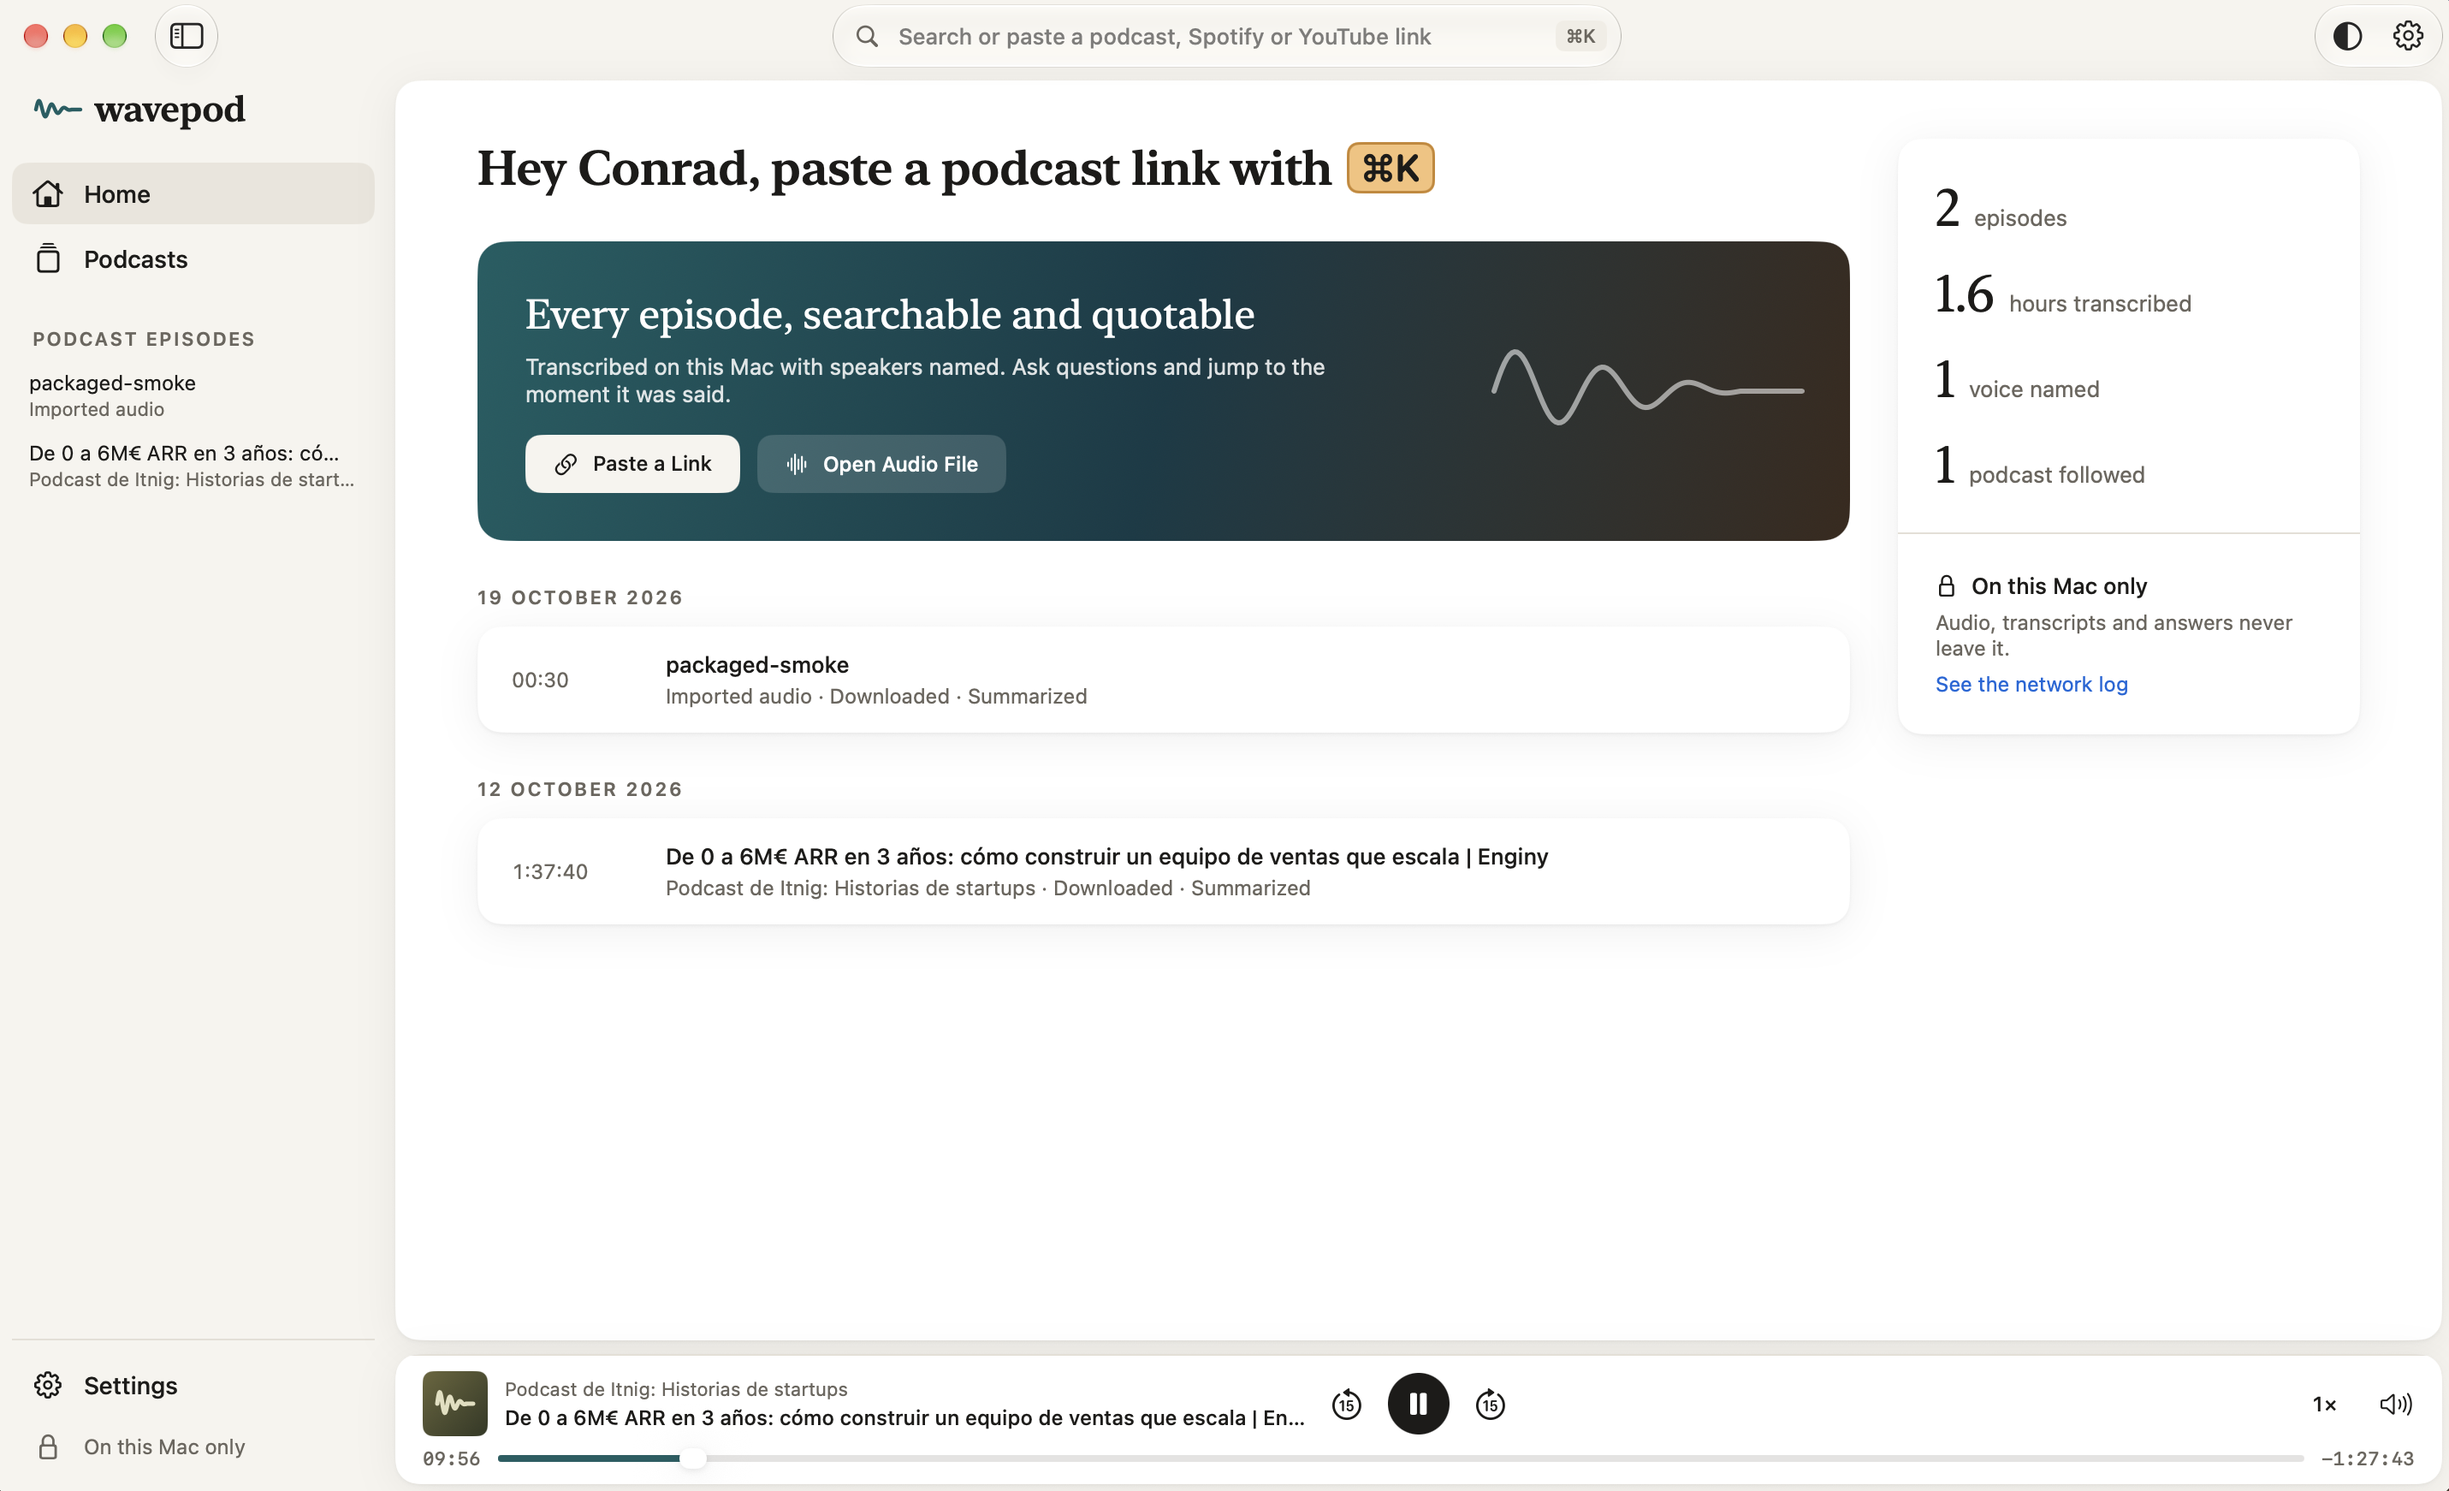
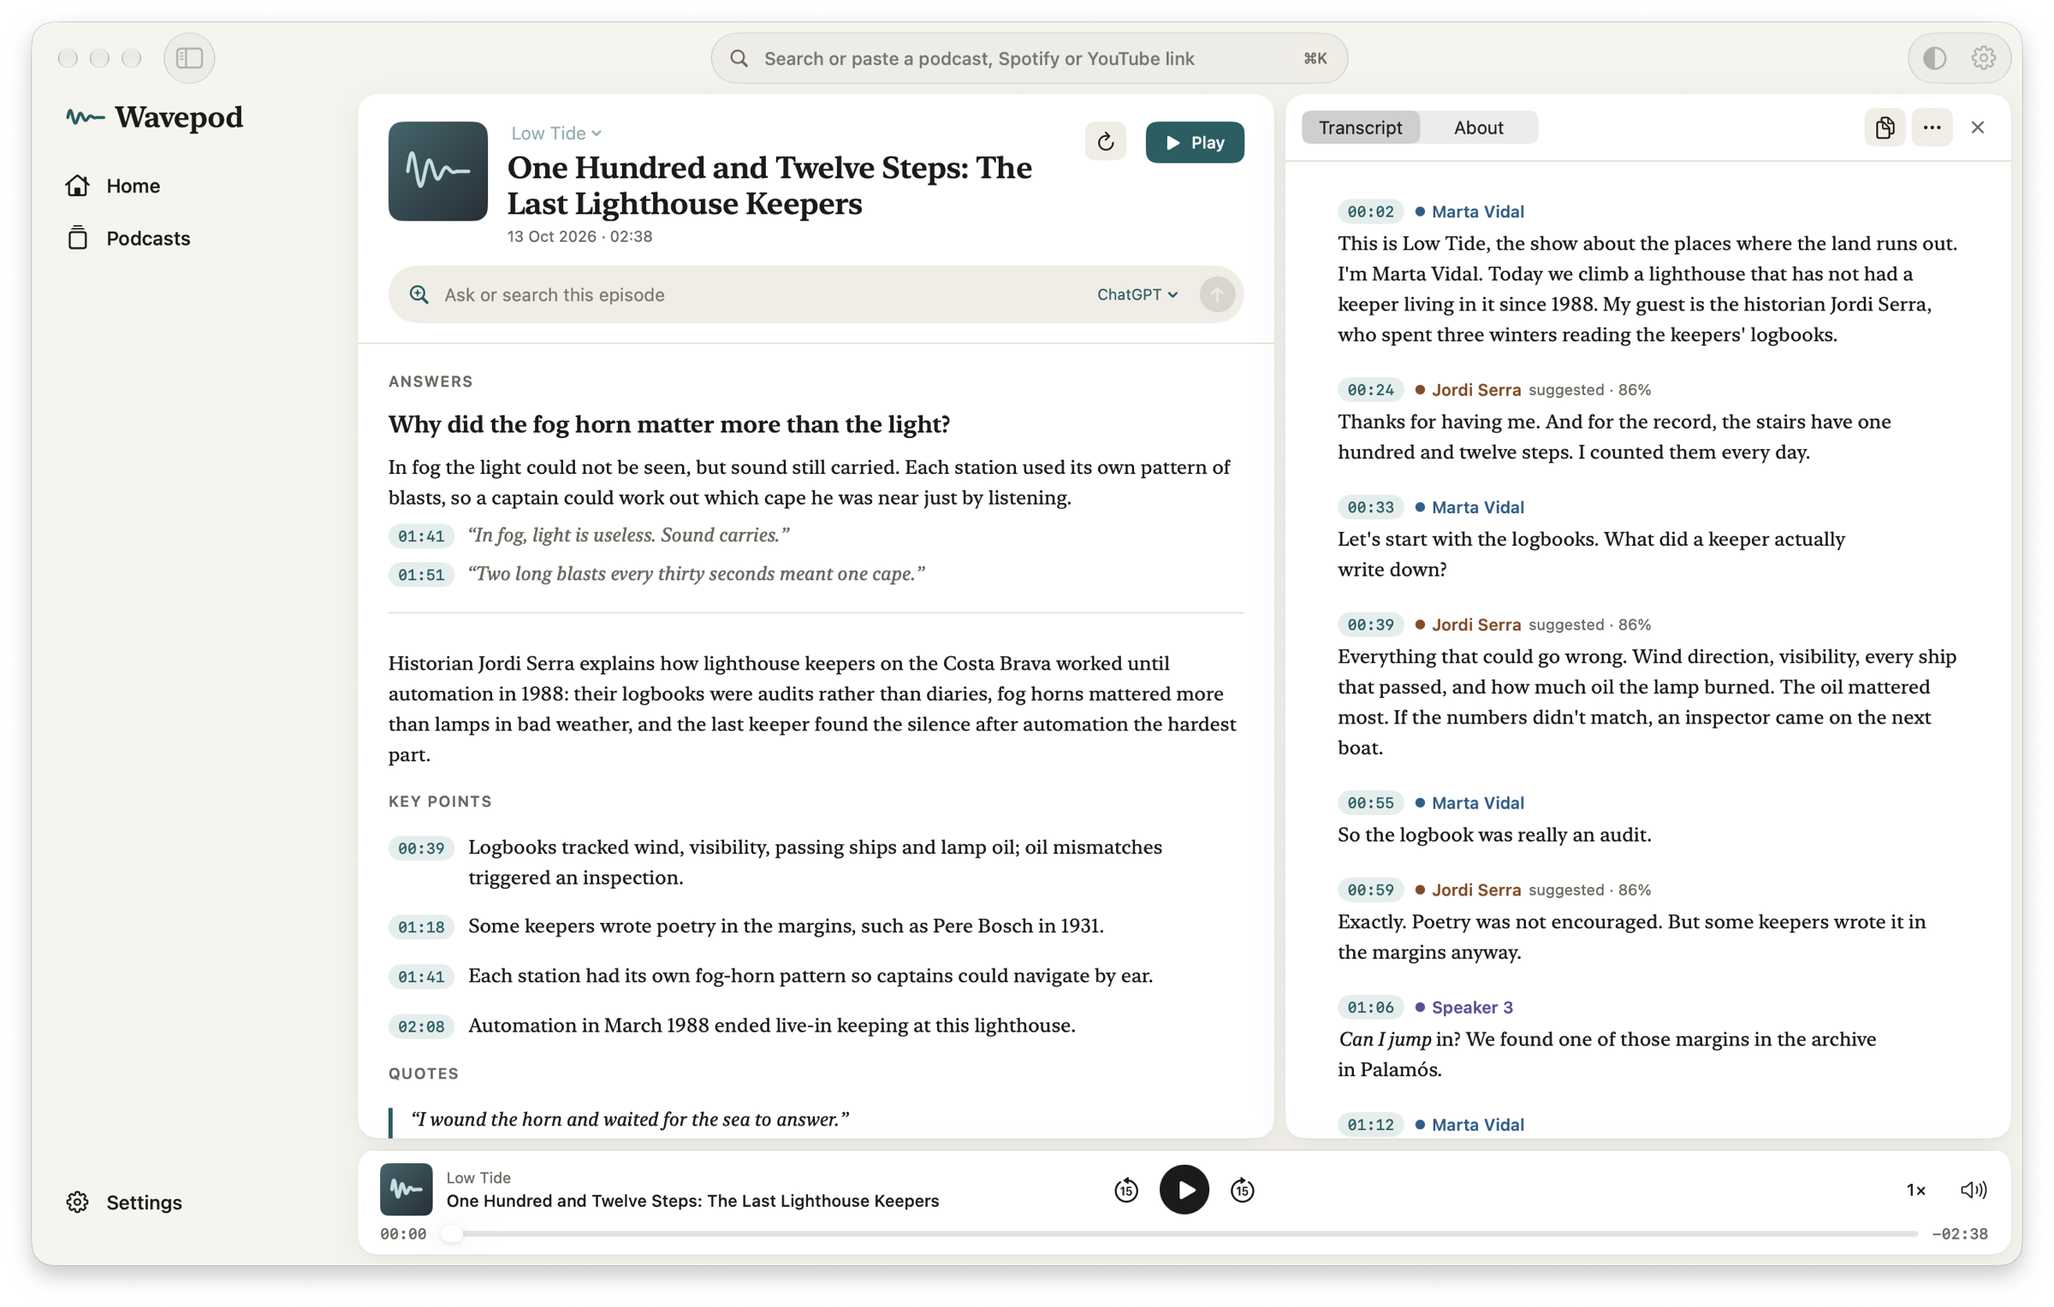
README: product intro, current screenshot, install and first steps, things to know

diff --git a/README.md b/README.md
@@ -1,33 +1,130 @@
 # Wavepod
 
-A private, podcast-native transcription app for macOS. Paste a podcast link or drop an audio or video file and get
-a transcript with speakers named that you can read, listen to, search and ask questions about. All of it runs on
-your Mac.
+**Read any podcast. Ask it anything. On your Mac.**
 
-![Wavepod showing an episode: the podcast on the left, the summary and an answer with timestamped quotes in the
-middle, and the transcript with named speakers on the right](docs/images/wavepod.png)
+Podcasts are full of things worth keeping: an idea, a number, the exact way a guest put it. But audio is hard to
+search, and you can't skim it. Wavepod turns any episode into a transcript you can read, with every speaker named.
+It writes a summary in which each point links to the moment it was said. You can ask the episode questions and get
+answers with quotes you can click to hear.
 
-- **Any link.** Spotify, Apple Podcasts, YouTube, an RSS feed or a show's website, or a local audio or video file.
-- **Speakers by name.** Voices are told apart and named from the episode itself; a name you confirm is
-  remembered for that show.
-- **A summary, automatically.** Written when a transcription finishes, on this Mac or your ChatGPT or Claude
-  plan, every point linked to the moment it was said.
-- **Ask the episode.** Questions are answered from the whole transcript with quotes you can click to hear.
-- **Follow podcasts.** New episodes can be transcribed, summarized and downloaded by themselves.
-- **Private.** Audio and transcripts stay on this Mac. Settings › Data and Privacy lists every network request
-  the app has made.
+Paste a Spotify, Apple Podcasts or YouTube link, and Wavepod does the rest on your Mac. A four-hour episode is
+transcribed in about five minutes on an M3. Your audio never leaves your computer.
 
-## Install
+![Wavepod with an episode open. On the left, the episode with an answer and its quotes, then the summary and its
+key points, each with a timestamp. On the right, the transcript with each speaker named. The player is at the
+bottom.](docs/images/wavepod.png)
 
-Wavepod has no signed download yet, so you build it from source. The first build takes about ten minutes.
+## Why Wavepod
+
+- **Paste any link.** Spotify, Apple Podcasts, YouTube, an RSS feed or a podcast's website. You can also add an
+  audio or video file from your Mac.
+- **Know who said what.** Wavepod tells the voices apart and names them from the episode itself. Name a voice once
+  and Wavepod recognises it in the next episode of that podcast.
+- **Get the summary first.** A summary is ready when the transcript is. It's organized under headings, and every
+  point links to its moment in the audio.
+- **Ask the episode.** "What did they say about pricing?" The answer quotes the transcript, in the language you
+  asked in. Click a quote to hear it.
+- **Read and listen together.** The transcript follows the audio. Click any timestamp to play from there.
+- **Follow your podcasts.** New episodes can be transcribed and summarized while you're away.
+- **Private by design.** Transcription runs on your Mac, on Apple Silicon. Answers run on your Mac too, unless you
+  choose to use your ChatGPT or Claude plan. Settings › Data and Privacy lists every network request Wavepod makes.
+- **Free and open source.** Apache-2.0.
+
+## What you need
+
+- A Mac with **Apple Silicon** (M1 or later).
+- **macOS 15** or later.
+- About **4 GB of free disk space** for the models. Long episodes and offline downloads need more.
+- An internet connection the first time, to download the models, and to fetch episodes.
+
+## Download and install
+
+The first public release is on its way. When it's out, it will be on the
+[Releases page](https://github.com/concava/wavepod/releases). Until then, [build Wavepod from source](#build-from-source).
+
+To install a release:
+
+1. Download `Wavepod-<version>.dmg` from the [Releases page](https://github.com/concava/wavepod/releases).
+2. Open the `.dmg` and drag **Wavepod** to **Applications**.
+3. Open Wavepod from Applications.
+4. If macOS says it can't verify Wavepod, the release is a test build that Apple hasn't checked yet (a
+   pre-release). Open **System Settings › Privacy & Security**, scroll down and click **Open Anyway**. Do this once.
+   Releases that Apple has checked (notarized) open without this step.
+
+Signed releases update themselves: Wavepod checks for updates and offers to install them. You can also choose
+**Wavepod › Check for Updates…**.
+
+## Get started
+
+1. **Download the models.** The first time you open Wavepod, the welcome screen offers two downloads:
+   - **Transcription and speakers.** Wavepod needs this to transcribe.
+   - **Ask model**, about 2.3 GB. It writes summaries and answers questions on your Mac. You can skip it and add it
+     later in Settings › Ask, or use your ChatGPT or Claude plan instead.
+2. **Add an episode.** Press **⌘K** and paste a link. You can also drop an audio or video file on the window, or
+   press **⌘O**. A podcast's link opens its page, where you can pick an episode or follow the podcast.
+3. **Wait a few minutes.** Progress shows on Home and in Settings › Queue. If you quit, a long episode continues
+   from where it stopped.
+4. **Read, listen and ask.** The episode opens in two cards:
+   - **Left:** the episode, the Ask field, your answers and the summary.
+   - **Right:** the transcript, or **About** with the show notes. Drag the gap between the cards to resize them.
+
+   Click any timestamp to play from that moment.
+5. **Name the speakers.** Click a speaker's name in the transcript to rename them everywhere. Wavepod shows a
+   suggested name with its confidence until you confirm it.
+6. **Follow podcasts.** Open a podcast and click **Follow**. On **Podcasts**, turn on **Auto-transcribe** to get
+   new episodes transcribed and summarized as they come out.
+
+## Good to know
+
+- **Where answers run.** Settings › Ask chooses where questions and summaries go:
+  - **On this Mac** (the default). Nothing leaves your computer.
+  - **Your ChatGPT plan.** Sign in with your ChatGPT account.
+  - **Your Claude plan.** Needs Claude Code or the Claude desktop app, and a separate Wavepod sign-in.
+
+  With a plan, Wavepod sends your question and the transcript text to that company. It never sends audio. Your
+  plan's limits apply, and you can set the model and its effort.
+- **Keychain.** Wavepod keeps your ChatGPT sign-in in the macOS Keychain. The first time, macOS asks for your Mac
+  password. Click **Always Allow** so it doesn't ask again.
+- **Languages.** Wavepod transcribes most European languages, including English, Spanish and Catalan.
+- **What it can't get.** Wavepod can't download Spotify-exclusive episodes, because Spotify doesn't publish their
+  audio.
+- **YouTube.** The first YouTube link downloads a small, verified helper (`yt-dlp`) that reads the video's details.
+- **Battery.** On battery, transcription pauses below 20 % and continues at 25 % or when you plug in. Low Power
+  Mode always pauses it.
+- **Background checks.** If you turn on **Check podcasts in the background** (Settings › General), keep Wavepod in
+  Applications. The checker runs from inside the app, also when Wavepod is closed.
+- **Reading.** Settings › General sets the theme, the text size, and the font and size of everything you read.
+- **Your data.** Everything is in `~/Library/Application Support/wavepod`. Settings › Data and Privacy shows the
+  50 newest network requests, and **Download All…** saves the full list.
+
+## Keyboard shortcuts
+
+| Shortcut | Action |
+| --- | --- |
+| ⌘K | Search, or paste a link |
+| ⌘J | Ask this episode |
+| ⌘O | Add an audio or video file |
+| ⌘1 / ⌘2 | Transcript / About |
+| ⌘↩ | Play or pause |
+| ⌘← / ⌘→ | Back or forward 15 seconds |
+| ⌘] / ⌘\ | Faster / normal speed |
+| ⌥⌘F | Follow playback in the transcript |
+| ⌘+ / ⌘− / ⌘0 | Bigger, smaller or actual text size |
+| ⇧⌘D | Cycle system, light and dark |
+| ⌘R | Check followed podcasts for new episodes (on Podcasts) |
+| ⌘, | Settings |
+
+The play/pause key on your keyboard and headphones also controls Wavepod.
+
+## Build from source
+
+The first build takes about ten minutes.
 
 **You need**
 
-- A Mac with Apple Silicon (M1 or later) running **macOS 15 or later**.
-- A current **Xcode** from the App Store (tested with Xcode 27), opened once so it finishes installing its
-  components.
+- A current **Xcode** from the App Store, opened once so it finishes installing its components.
 - [Homebrew](https://brew.sh), for XcodeGen.
-- About 10 GB of free disk space: roughly 6 GB for the build and 3 GB for the models.
+- About 6 GB of free disk space for the build, plus the models.
 
 **Build and run**
 
@@ -39,7 +136,7 @@ xcodegen generate
 open wavepod.xcodeproj
 ```
 
-In Xcode, choose the **Wavepod** scheme and **My Mac**, then press **⌘R**.
+In Xcode, choose the **wavepod** scheme and **My Mac**, then press **⌘R**.
 
 To build without opening Xcode and keep the app in Applications:
 
@@ -48,58 +145,14 @@ xcodebuild -project wavepod.xcodeproj -scheme wavepod -configuration Debug -deri
 cp -R build/dd/Build/Products/Debug/Wavepod.app /Applications/
 ```
 
-Keep the app in one place once you follow podcasts: the background feed checker runs from inside it.
-
-## How to use it
-
-1. **First launch.** A short welcome asks to download the models once:
-   - **Transcription and speakers** is needed to transcribe.
-   - **Ask and summaries** (about 2.3 GB) writes summaries and answers questions. You can add it later in
-     Settings › Models.
-2. **Add an episode.** Press **⌘K** and paste a link, or drop an audio or video file on the window (**⌘O** opens
-   one). A show's link, rather than an episode's, opens the show on the Podcasts page. Progress shows on Home, and
-   a long episode resumes where it stopped if you quit.
-3. **Read and listen.** The episode opens as two cards:
-   - **Left:** the episode, with its podcast's menu (other episodes, All Episodes and Follow), the Ask field,
-     answers and the summary.
-   - **Right:** the transcript or details. Close it to read the episode alone.
-
-   Click any timestamp to play from that moment.
-4. **Name the speakers.** Click a speaker's name in the transcript to rename them everywhere. Suggested names show
-   a confidence until you confirm them.
-5. **Ask.** Type a question in the middle card's field (**⌘J**). The answer quotes the transcript, in the language
-   you asked in. Answers run on this Mac by default. Settings › Ask can use your ChatGPT or Claude plan instead,
-   which sends the question and transcript text (never audio) to that provider. Claude needs a current Claude Code
-   installation and a separate Wavepod sign-in.
-6. **Follow podcasts.** On **Podcasts**, each show you follow lists its five newest episodes. Turn on
-   **Auto-transcribe** to have new episodes transcribed and summarized as they come out. The ⋯ menu sets offline
-   downloads, how many downloads to keep, and Unfollow. **⌘R** checks for new episodes now.
-7. **Settings** (**⌘,**) holds the theme, text size, transcription engine, the queue, models, followed podcasts
-   and the privacy log.
-
-On battery, the queue pauses below 20 % and resumes at 25 % or when you plug in. Low Power Mode always pauses it.
-
-### Keyboard shortcuts
-
-| Shortcut | Action |
-| --- | --- |
-| ⌘K | Search, or paste a link |
-| ⌘J | Ask this episode |
-| ⌘O | Open an audio or video file |
-| ⌘1 / ⌘2 | Transcript / About |
-| ⌘↩ | Play or pause |
-| ⌘← / ⌘→ | Back or forward 15 seconds |
-| ⌘] / ⌘\ | Faster / normal speed |
-| ⌥⌘F | Follow playback in the transcript |
-| ⌘+ / ⌘− / ⌘0 | Bigger, smaller or actual text size |
-| ⇧⌘D | Cycle system, light and dark |
-| ⌘R | Check followed podcasts for new episodes (on Podcasts) |
-| ⌘, | Settings |
+A build from source is signed only for your Mac. macOS treats each new build as a new app, so the Keychain asks for
+your password again after each build. To stop that, add your Apple ID in **Xcode › Settings › Accounts** and sign
+the build with your team.
 
 ## Documentation
 
 - [How Wavepod works](docs/architecture.md): the processes, modules, the path of an episode, storage and privacy.
-- [Developing Wavepod](docs/development.md): build, tests, the golden-set evaluation and the release checklist.
+- [Developing Wavepod](docs/development.md): build, tests, the evaluation set and how to make a release.
 - [Decisions](docs/decisions/README.md): why things are the way they are, with the evidence.
 
 License: [Apache-2.0](LICENSE).
